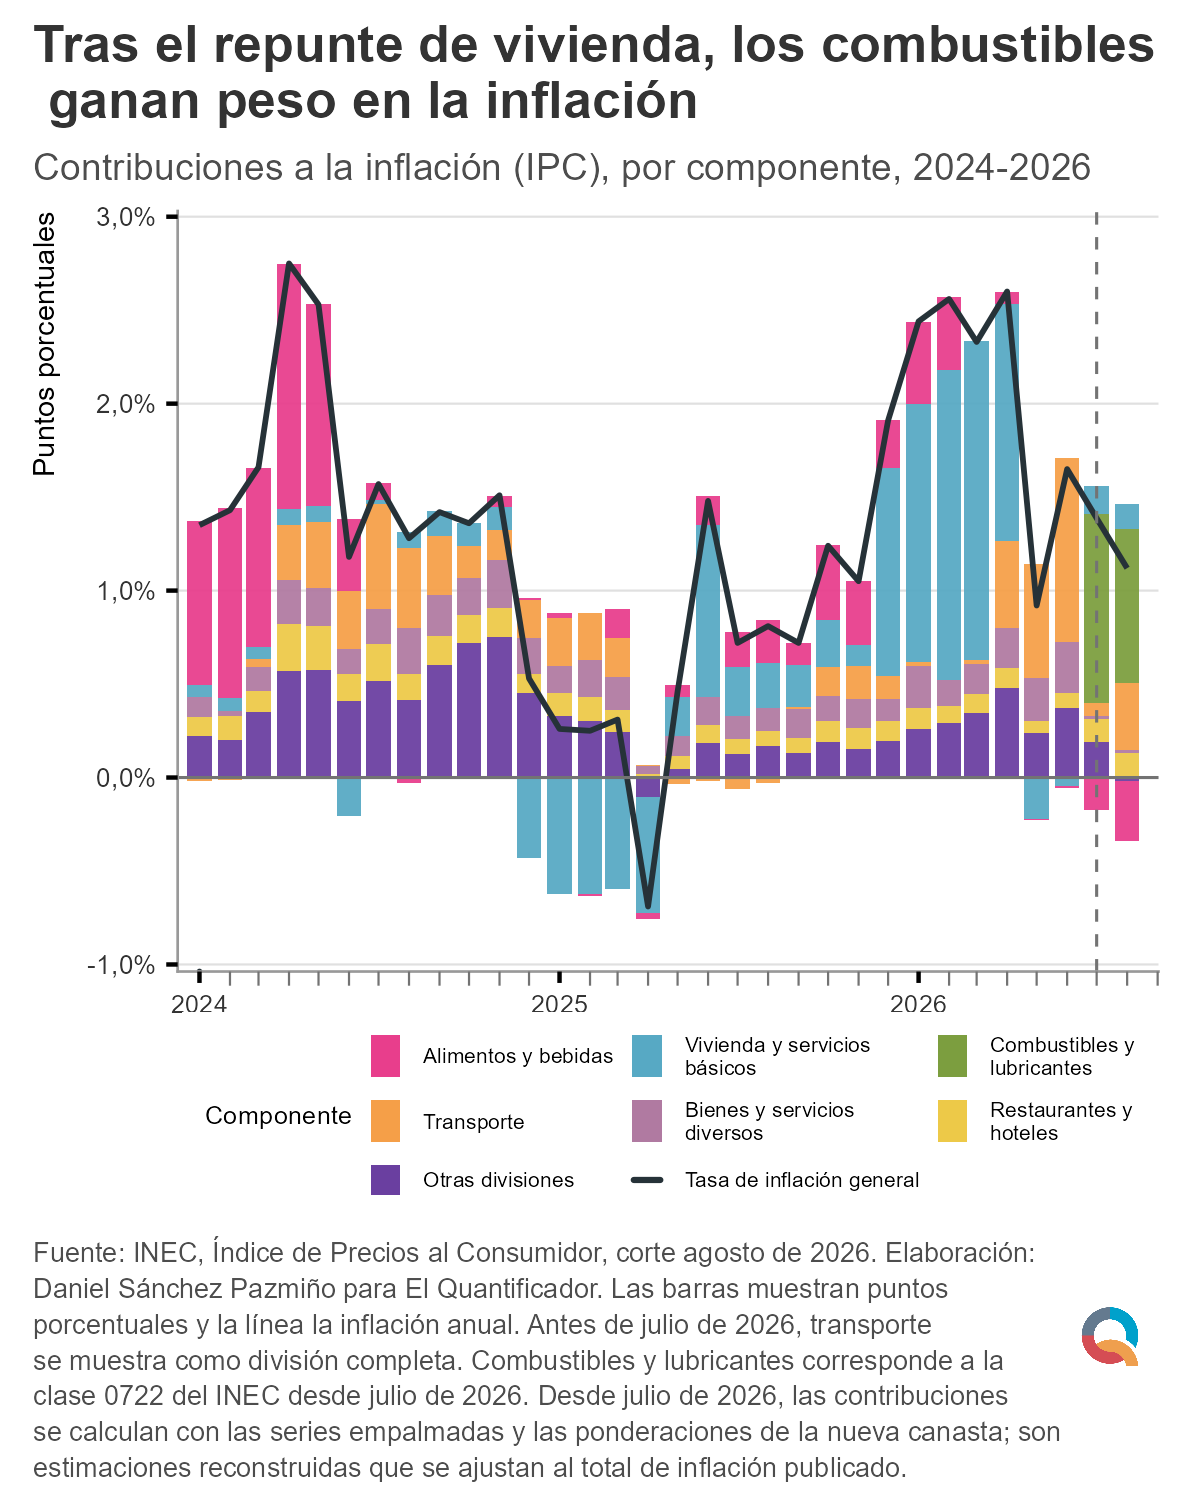
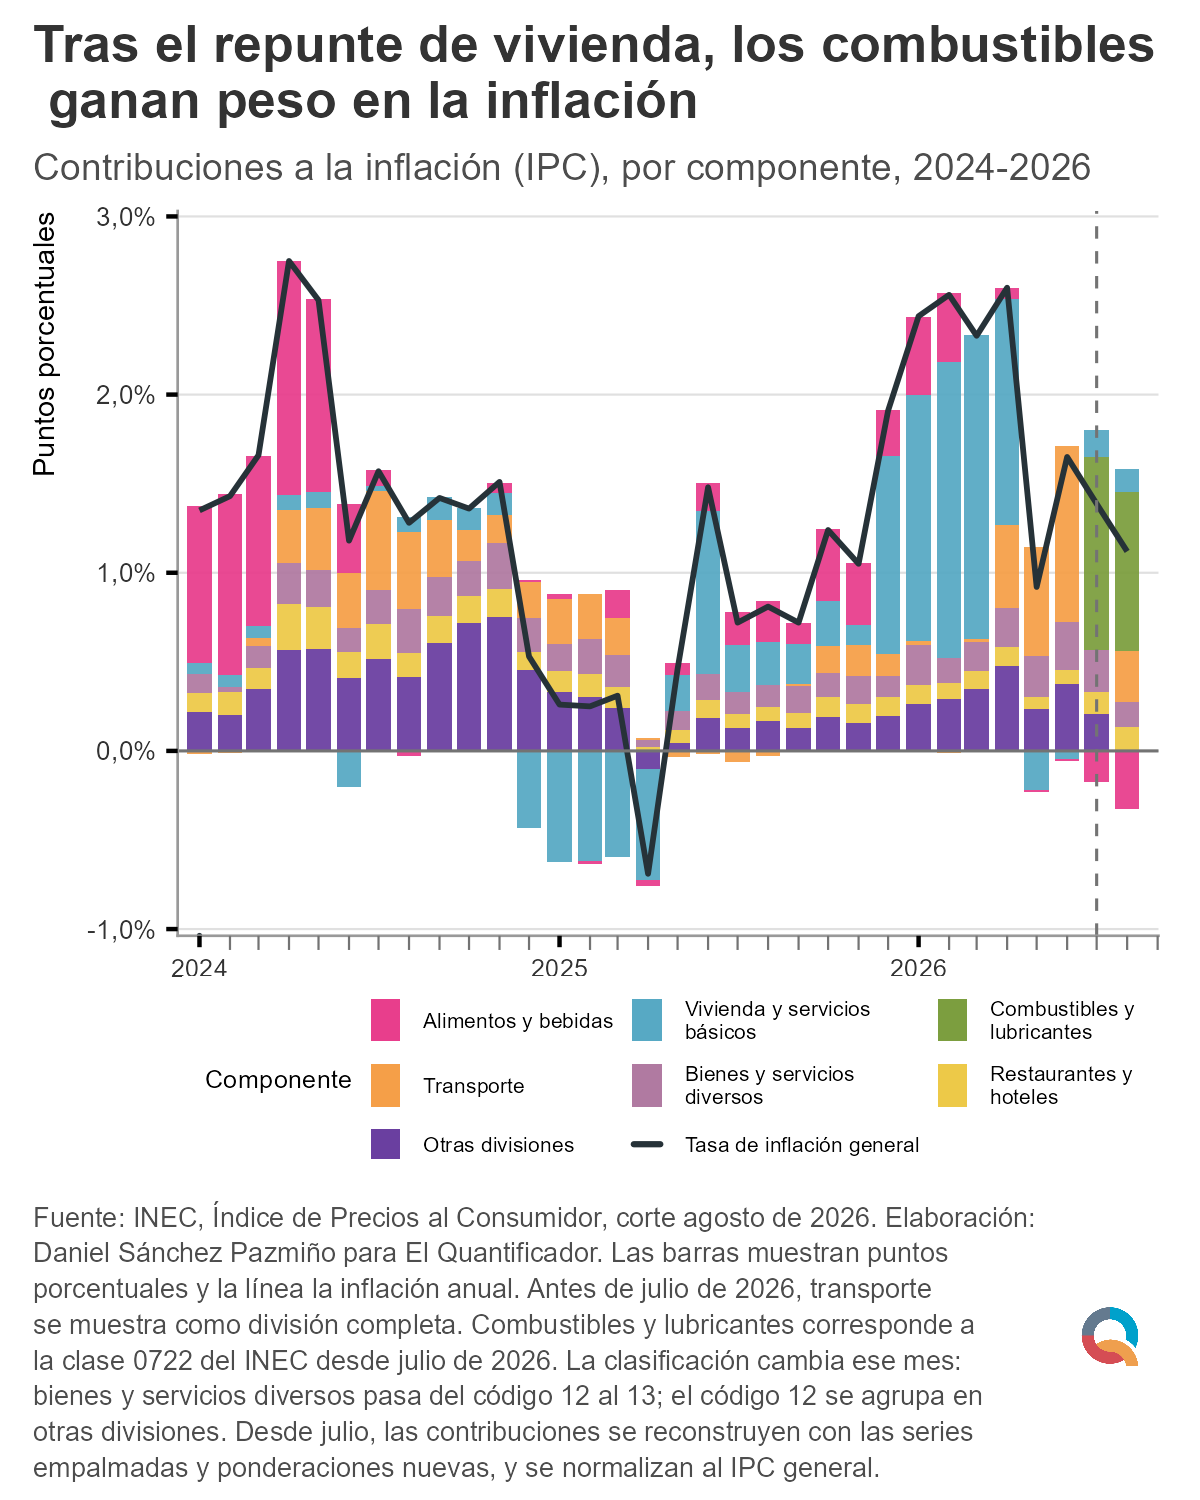
Correct chart 49 contribution calculations

diff --git a/data/sources/ipc_inflacion_contribuciones.md b/data/sources/ipc_inflacion_contribuciones.md
@@ -10,11 +10,13 @@ La fuente oficial es <https://www.ecuadorencifras.gob.ec/indice-de-precios-al-co
 
 ## Método
 
-El gráfico cubre enero de 2024 a agosto de 2026. Se muestran las divisiones 01, 04, 07, 11 y 12, y se agrupan las demás en `Otras divisiones`.
+El gráfico cubre enero de 2024 a agosto de 2026. Se muestran las divisiones 01, 04, 07 y 11, junto con la categoría comparable de bienes y servicios diversos: código 12 hasta junio y código 13 desde julio. Las demás divisiones se agrupan en `Otras divisiones`.
 
 Hasta junio de 2026, transporte se muestra como división completa. `Combustibles y lubricantes` corresponde a la clase 0722 del INEC y se desagrega únicamente desde julio de 2026, cuando entra la nueva canasta.
 
-Desde julio de 2026 el INEC usa una nueva base, canasta y clasificación. El script combina las series empalmadas con los tabulados de agosto. Las contribuciones posteriores se calculan a partir de los índices y ponderaciones vigentes y se normalizan al total de inflación anual publicado. Son estimaciones reconstruidas, no incidencias anuales publicadas directamente por el INEC.
+Desde julio de 2026 el INEC usa una nueva base, canasta y clasificación. El script combina las series empalmadas con los tabulados de agosto. Las contribuciones posteriores se calculan a partir de los índices y ponderaciones vigentes y se normalizan al total de inflación anual publicado con un factor común. Ese mismo factor se aplica a la clase 0722 antes de separarla de la división Transporte. Son estimaciones reconstruidas, no incidencias anuales publicadas directamente por el INEC.
+
+La clasificación también cambia desde julio de 2026: bienes y servicios diversos corresponde al código 12 hasta junio y al código 13 desde julio. El código 12 desde julio identifica seguros y servicios financieros, que se agrupan en “Otras divisiones” para mantener la categoría comparable en el gráfico.
 
 ## Reproducción
 
